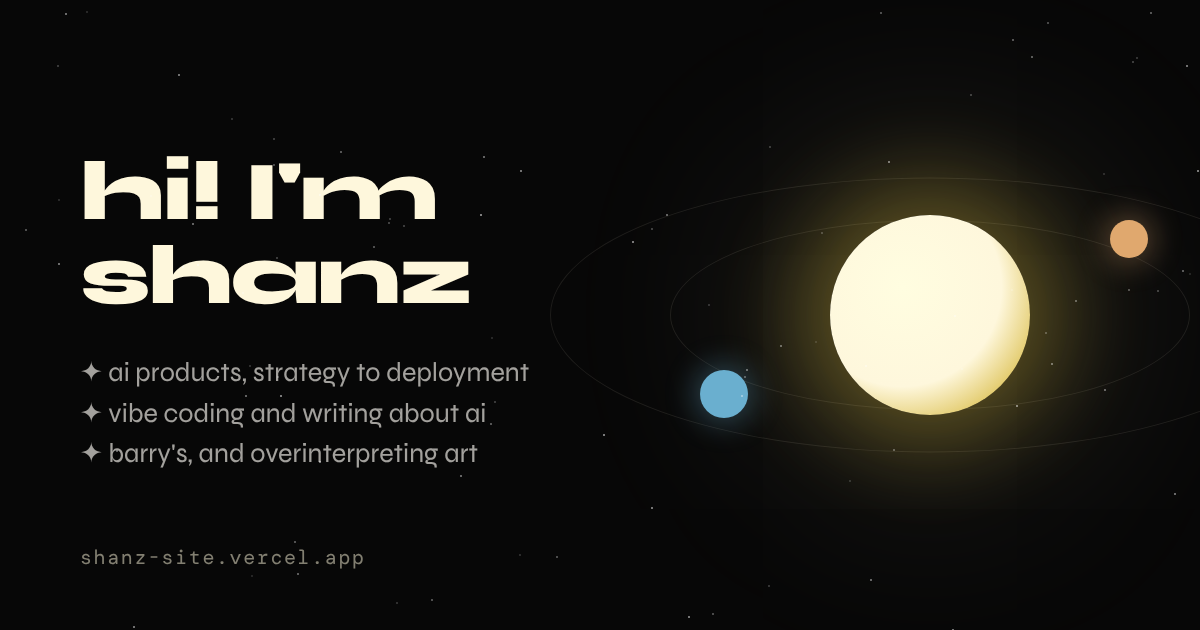
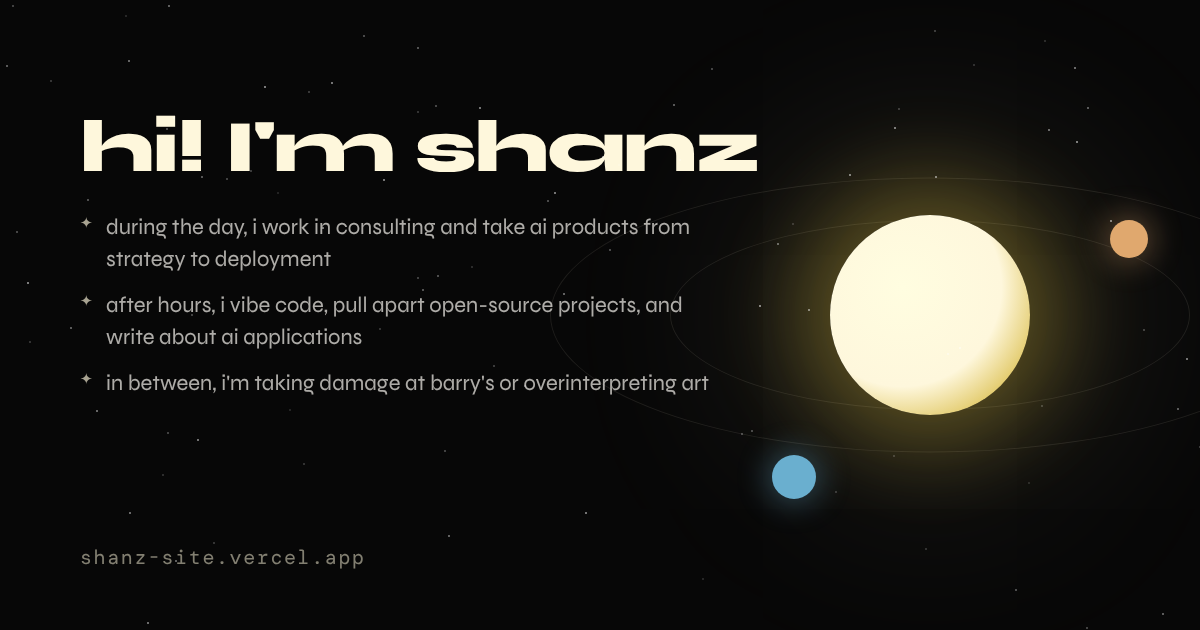
About copy matches new intro; orbit keeps moving under reduced motion; full bullets in share image
Claude-Session: https://claude.ai/code/session_01FJYN4tq9LT6hXovEqc6Yei

Changed region(s): [[0.0617, 0.181, 0.6475, 0.5429], [0.0617, 0.573, 0.6475, 0.754], [0.6167, 0.6937, 0.7092, 0.8143]]

diff --git a/index.html b/index.html
@@ -298,10 +298,10 @@
 /* ───────────── CONTENT ───────────── */
 
 const ABOUT = `
-  <p>by day i work in ai product strategy &amp; ops, in consulting. most of it is sitting between the people who want an ai product and the engineers building it, and getting it from prototype to something people actually use. before that i did diligence and integration work on tech deals.</p>
-  <p>in my free time i write long commercial breakdowns of ai companies: who buys, why, what has to be true, and how the plan is going so far.</p>
-  <p>i also build small things. mostly i fork repos i think are cool and take them apart until i understand them.</p>
-  <p>based in nyc. find me on <a href="https://substack.com/@notshananigans" target="_blank" rel="noopener">substack</a> and <a href="https://x.com/notshananigans" target="_blank" rel="noopener">x</a>, where projects, art, music and miscellany are very much solicited :D</p>
+  <p>i'm a consultant in nyc. most days i sit between the people who want an ai product and the engineers building it, and try to get it from a deck to something people use. before that, i did diligence and integration work on tech deals.</p>
+  <p>after hours, i write long breakdowns of ai applications on <a href="https://substack.com/@notshananigans" target="_blank" rel="noopener">substack</a>: who buys them, why, and what has to be true for them to work. i also vibe code, mostly by forking open-source projects and pulling them apart until i understand them.</p>
+  <p>in between, i'm taking damage at barry's or overinterpreting art.</p>
+  <p>please reach me on <a href="https://x.com/notshananigans" target="_blank" rel="noopener">x</a>, where ai projects, art and miscellany are very much solicited :D</p>
 `;
 
 const WRITING = [
@@ -547,7 +547,7 @@ const reduceMotion = window.matchMedia('(prefers-reduced-motion: reduce)').match
 let last = performance.now();
 function tick(now) {
   const dt = Math.min((now - last) / 1000, 0.05); last = now;
-  const k = reduceMotion ? 0 : 1;
+  const k = reduceMotion ? 0.5 : 1; // always orbit; just slower if the visitor prefers less motion
   planetEls.forEach(item => {
     item.a += item.p.speed * dt * k;
     const { x, y } = pos(item.p.r, item.a);
